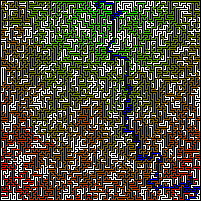
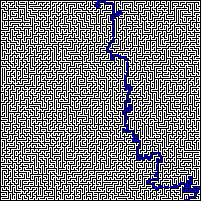
Added A* heuristic

diff --git a/maze.py b/maze.py
@@ -1,4 +1,4 @@
-from math import inf
+from math import inf, sqrt
 
 class Maze:
     def __init__(self, im):
@@ -8,13 +8,13 @@ class Maze:
         # Find starting node
         for x in range(width):
             if im.getpixel((x, 0)):
-                self.start_node = self.Node(x, 0)
+                self.start_node = Node(x, 0)
                 break
         
         # Find end node
         for x in range(width):
             if im.getpixel((x, height - 1)):
-                self.end_node = self.Node(x, height - 1)
+                self.end_node = Node(x, height - 1)
                 break
 
         # Maintain a record of the reachable nodes in rows above
@@ -36,7 +36,7 @@ class Maze:
                         if not(im.getpixel((x, y - 1)) and 
                                 im.getpixel((x, y + 1)) and 
                                 not im.getpixel((x + 1, y))):
-                            new_node = self.Node(x, y)
+                            new_node = Node(x, y)
                                 
                             # If up==path, set neighbors
                             if im.getpixel((x, y - 1)):
@@ -53,7 +53,7 @@ class Maze:
                         if not(not im.getpixel((x, y - 1)) and 
                                 not im.getpixel((x, y + 1)) and 
                                 im.getpixel((x + 1, y))):
-                            new_node = self.Node(x, y)
+                            new_node = Node(x, y)
 
                             # If up==path, set neighbors
                             if im.getpixel((x, y - 1)):
@@ -75,40 +75,37 @@ class Maze:
         self.end_node.add_neighbor(nodes_above[self.end_node.x])
         nodes_above[self.end_node.x].add_neighbor(self.end_node)
 
-    class Node:
-        def __init__(self, x, y):
-            self.x, self.y = x, y
-            self.neighbors = []
-            return
+class Node:
+    def __init__(self, x, y):
+        self.x, self.y = x, y
+        self.neighbors = []
+        return
 
-        def distance(self, other):
-            if other in self.neighbors:
-                return abs(self.x - other.x) + abs(self.y - other.y)
-            else:
-                return inf
-        
-        def add_neighbor(self, other):
-            self.neighbors.append(other)
+    def distance(self, other):
+        return sqrt((self.x - other.x) ** 2 + (self.y - other.y) ** 2)
+    
+    def add_neighbor(self, other):
+        self.neighbors.append(other)
 
-        def __repr__(self):
-            return str((self.x, self.y))
+    def __repr__(self):
+        return str((self.x, self.y))
 
-        # For use in dicts and heaps
-        def __hash__(self):
-            return hash((self.x, self.y))
+    # For use in dicts and heaps
+    def __hash__(self):
+        return hash((self.x, self.y))
 
-        # # These methods are needed in order to use nodes in heaps.
-        def __eq__(self, other):
-            return self.x == other.x
+    # These methods are needed in order to use nodes in heaps.
+    def __eq__(self, other):
+        return self.x == other.x
 
-        def __lt__(self, other):
-            return self.x < other.x
+    def __lt__(self, other):
+        return self.x < other.x
 
-        def __le__(self, other):
-            return self.x <= other.x
+    def __le__(self, other):
+        return self.x <= other.x
 
-        def __gt__(self, other):
-            return self.x > other.x
+    def __gt__(self, other):
+        return self.x > other.x
 
-        def __ge__(self, other):
-            return self.x >= other.x
+    def __ge__(self, other):
+        return self.x >= other.x

diff --git a/maze_solvers.py b/maze_solvers.py
@@ -4,7 +4,8 @@ import heapq
 
 
 class Dijkstra:
-    def __init__(self, source_node, end_node, early_exit = True):
+    def __init__(self, source_node, end_node, early_exit=True, heuristic=None):
+        # Use heuristic="astar" to use A* algorithm
         # Tracking variables
         self.shortest_paths_dist = {}
         self.shortest_paths_dist[source_node] = 0
@@ -17,16 +18,24 @@ class Dijkstra:
         explored = set()
         explored.add(source_node)
 
+        # Heuristic for astar algorithm
+        heuristic_dist = lambda node: node.distance(end_node) if heuristic == "astar" else 0
+
         # Init heap with neighbors of source node
         heap = []
-        for tail in source_node.neighbors:
-            heapq.heappush(heap, (source_node.distance(tail), source_node, tail))
+        for neighbor in source_node.neighbors:
+            heapq.heappush(heap, 
+                (heuristic_dist(neighbor) + source_node.distance(neighbor), 
+                source_node.distance(neighbor), 
+                source_node, 
+                neighbor)
+            )
 
         # Loop until heap is empty
         while heap:
             # Pop items from heap until an unexplored node is found
             while True:
-                dist, head, tail = heapq.heappop(heap)
+                hdist, dist, head, tail = heapq.heappop(heap)
                 if tail not in explored or not heap:
                     break
             
@@ -44,7 +53,12 @@ class Dijkstra:
             for new_node in tail.neighbors:
                 if new_node not in explored:
                     new_dist = dist + new_node.distance(tail)
-                    heapq.heappush(heap, (new_dist, tail, new_node))
+                    heapq.heappush(heap, 
+                        (heuristic_dist(new_node) + new_dist, 
+                        new_dist, 
+                        tail, 
+                        new_node)
+                    )
 
         self.shortest_path = self.shortest_paths[end_node]
         self.shortest_path_dist = self.shortest_paths_dist[end_node]

diff --git a/solve.py b/solve.py
@@ -5,7 +5,7 @@ import solution_image_generator
 import time
 
 
-def solve(filename):
+def solve(filename, heuristic=None, draw_depth=True):
     im = Image.open("maze_images/" + filename)
 
     t_total0 = time.time()
@@ -19,14 +19,14 @@ def solve(filename):
     # Solve maze
     print("Solving maze...")
     t0 = time.time()
-    sol = maze_solvers.Dijkstra(maze.start_node, maze.end_node)
+    sol = maze_solvers.Dijkstra(maze.start_node, maze.end_node, early_exit=draw_depth, heuristic=heuristic)
     t1 = time.time()
     print("Done. Time elapsed:", t1 - t0, "\n")
 
     # Generate solution image
     print("Generating image...")
     t0 = time.time()
-    solution_image_generator.Solution_image(im, sol, filename)
+    solution_image_generator.Solution_image(im, sol, filename, draw_depth=draw_depth)
     t1 = time.time()
     print("Done. Time elapsed:", t1 - t0, "\n")
 
@@ -34,6 +34,4 @@ def solve(filename):
     print("Total time:", t_total1 - t_total0)
 
 if __name__ == "__main__":
-    # Keep in mind: Algorithms like Dijkstra are much more memory-intensive
-    # than depth-first search. For really large mazes, RAM becomes an issue
-    solve("braid200.png")
+    solve("perfect2k.png", heuristic="astar", draw_depth=False)

diff --git a/solution_image_generator.py b/solution_image_generator.py
@@ -1,13 +1,16 @@
 class Solution_image:
-    def __init__(self, im, sol, filename):
+    def __init__(self, im, sol, filename, draw_depth=False):
         # Output a solved image
         im = im.convert("RGB")
         pixels = im.load()
-        self.__paint_depth(sol, pixels)
-        self.__paint_sol(sol, pixels)
+
+        if draw_depth:
+            self.__draw_depth(sol, pixels)
+
+        self.__draw_sol(sol, pixels)
         im.save("maze_solutions/" + filename)
 
-    def __paint_depth(self, sol, pixels):
+    def __draw_depth(self, sol, pixels):
         # Color all dead end routes
         def color(progress, path_dist): 
             r = int(255*(progress/path_dist))
@@ -31,7 +34,7 @@ class Solution_image:
 
         pixels[path[-1].x, path[-1].y] = color(progress, sol.shortest_path_dist)
 
-    def __paint_sol(self, sol, pixels):
+    def __draw_sol(self, sol, pixels):
         # Paints shortest path solution
         progress = 0
         color = (0, 0, 255)
